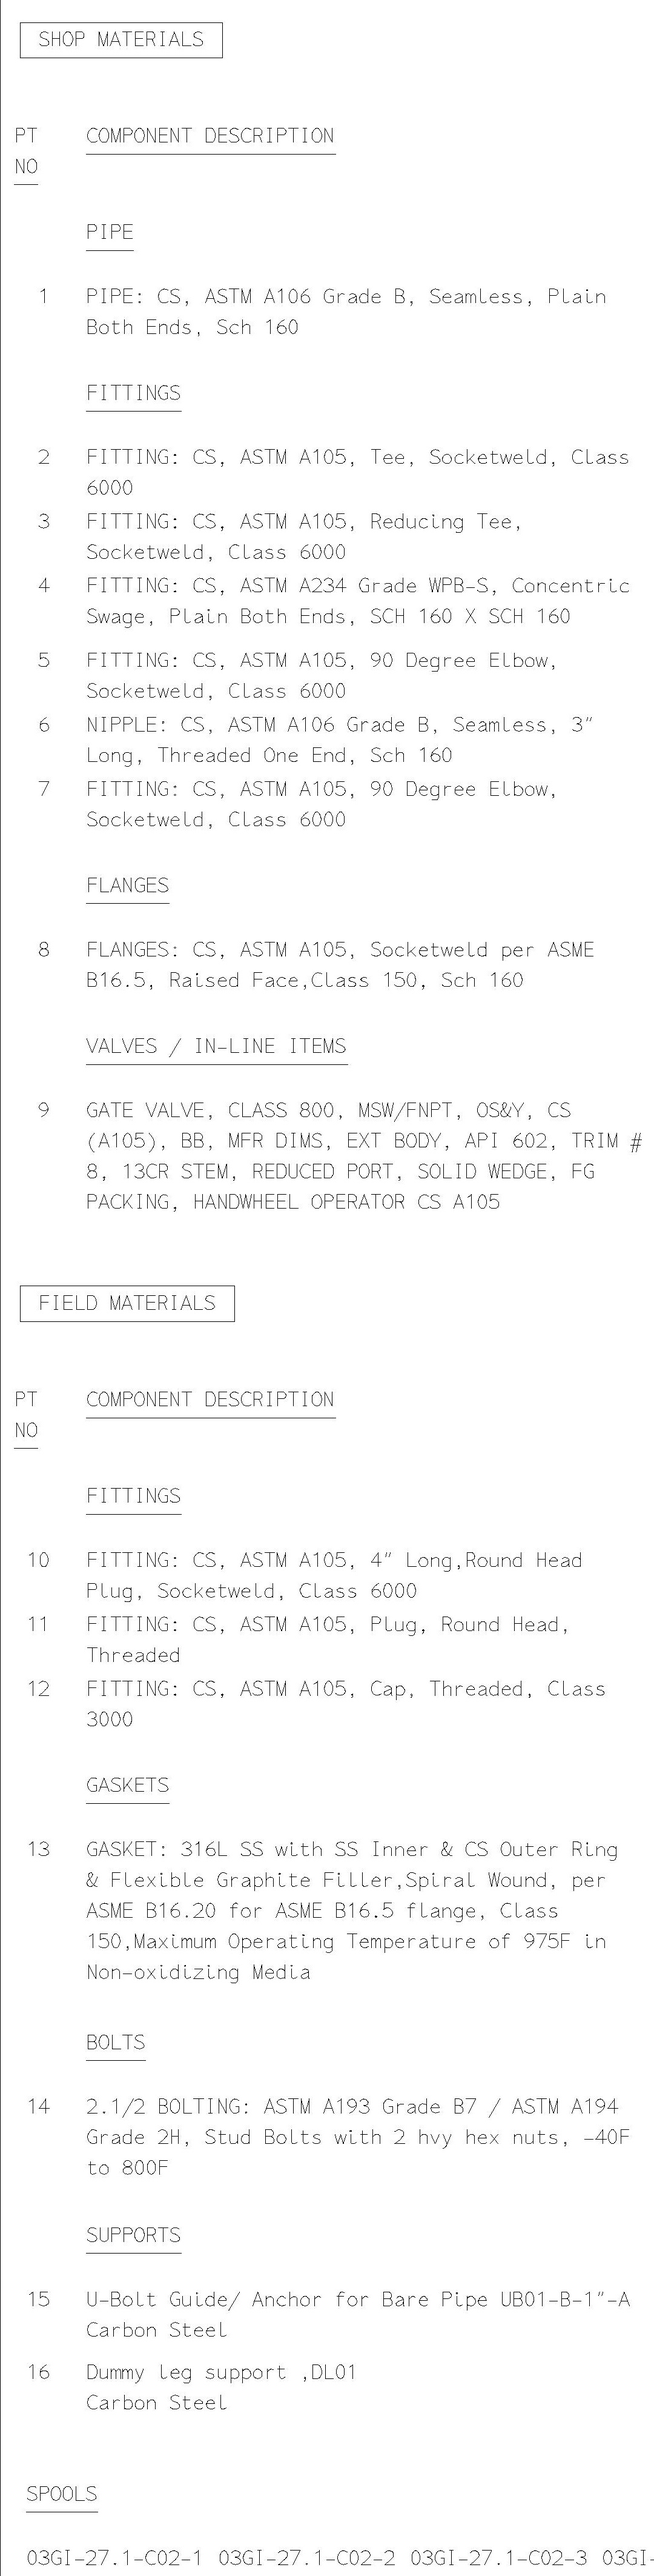
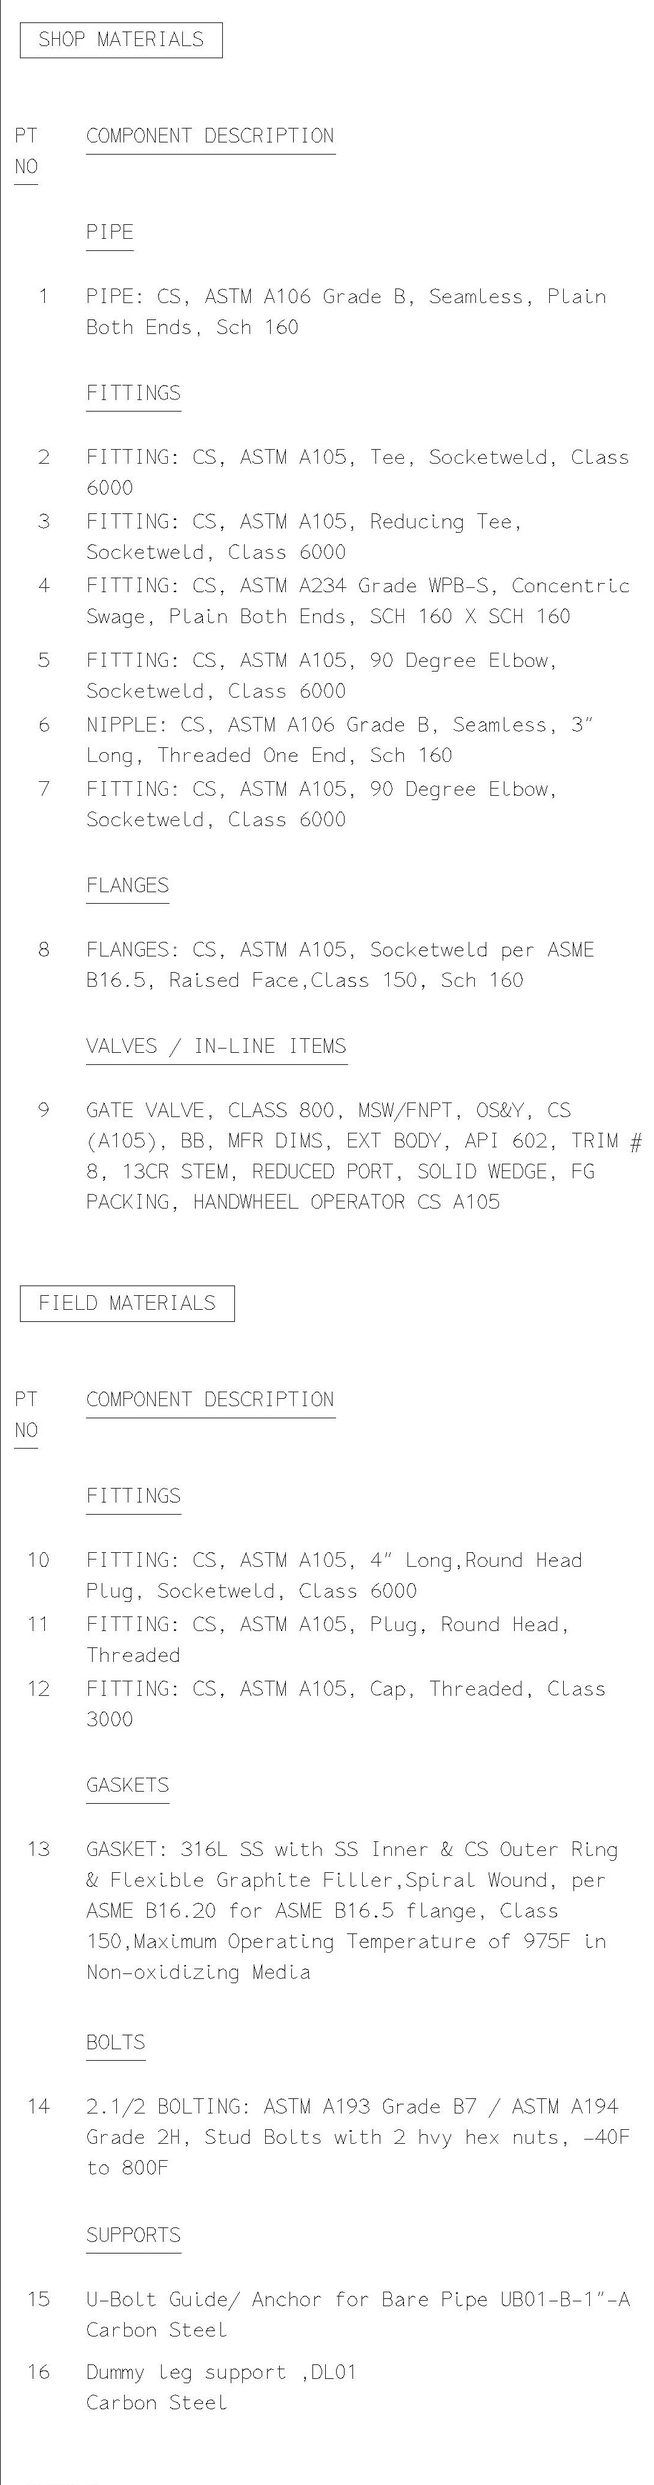
till ocr completed

diff --git a/ocr.py b/ocr.py
@@ -3,24 +3,35 @@ from PIL import Image
 import pytesseract
 import re
 import cv2
+import os
+
+path = 'cropped'
+os.makedirs(path, exist_ok=True)
+path2 = 'extract'
+os.makedirs(path2, exist_ok=True)
+
 pytesseract.pytesseract.tesseract_cmd = r'C:\Program Files\Tesseract-OCR\tesseract.exe'
 # characters_to_remove = ['‘', '|', '-', '(', ';', '}', '+', '—', '”', '“', '°']
 characters_to_remove = ['‘', '|', ';', '}', '+', '“', '°', '”']
-images = glob.glob("./Cropped/*.jpg")
-image_counter = 1
 
-for image in images:
-    # preprocessing the image
-    bgr_image = cv2.imread(image)
-    gray = cv2.cvtColor(bgr_image, cv2.COLOR_BGR2GRAY)
-    blur = cv2.GaussianBlur(gray, (3,3), 0)
-    thresh = cv2.threshold(blur, 0, 255, cv2.THRESH_BINARY_INV + cv2.THRESH_OTSU)[1]
-    invert = 255 - thresh    
-    # img = Image.open(invert)
-    data = pytesseract.image_to_string(invert, lang='eng', config='--psm 6')
-    cleaned_data = data
-    for char in characters_to_remove:
-        cleaned_data = cleaned_data.replace(char, '')
-    with open(f'extract/text_{image_counter}.txt', 'w') as file:
-        file.write(cleaned_data)
-    image_counter = image_counter + 1
+def ocr_image(pdf_name):
+    images = glob.glob("./cropped/"+pdf_name+"/*.jpg")
+    image_counter = 1
+    
+    for image in images:
+        # preprocessing the image
+        bgr_image = cv2.imread(image)
+        gray = cv2.cvtColor(bgr_image, cv2.COLOR_BGR2GRAY)
+        blur = cv2.GaussianBlur(gray, (3,3), 0)
+        thresh = cv2.threshold(blur, 0, 255, cv2.THRESH_BINARY_INV + cv2.THRESH_OTSU)[1]
+        invert = 255 - thresh    
+        # img = Image.open(invert)
+        data = pytesseract.image_to_string(invert, lang='eng', config='--psm 6')
+        cleaned_data = data
+        for char in characters_to_remove:
+            cleaned_data = cleaned_data.replace(char, '')
+        with open(f'extract/text_{image_counter}.txt', 'w') as file:
+            file.write(cleaned_data)
+        image_counter = image_counter + 1
+
+# ocr_image("03GI-27.1_C02_REV0.pdf")

diff --git a/cropping.py b/cropping.py
@@ -9,6 +9,10 @@ os.makedirs(path, exist_ok=True)
 # images = glob.glob("./rotating/*.jpg")
 # images = glob.glob("./Retrieve/*.jpg")
 
+x = [6060, 7140, 7300, 7660, 7300]
+y = [150, 150, 150, 150, 150]
+w = [1080, 160, 360, 250, 610]
+h = [4100, 4100, 4100, 4100, 4100]
 
 # x = 6000
 # y = 100
@@ -19,15 +23,12 @@ os.makedirs(path, exist_ok=True)
 
 
 # for image in images:
-def crop_image(filename):
-        x = [6060, 7140, 7300, 7660, 7300]
-        y = [150, 150, 150, 150, 150]
-        w = [1080, 160, 360, 250, 610]
-        h = [4250, 4250, 4250, 4250, 4250]
+def crop_image(pdf_name):
+        
         image_counter = 1
         # global image_counter
-        images = glob.glob("./retrieve/"+filename+"/*.jpg")
-        os.makedirs('cropped/'+filename, exist_ok=True)
+        images = glob.glob("./retrieve/"+pdf_name+"/*.jpg")
+        os.makedirs('cropped/'+pdf_name, exist_ok=True)
         for image in images:
                 # image = images[j]
                 img=cv2.imread(image,1)
@@ -39,10 +40,11 @@ def crop_image(filename):
 
                 for i in range(5):
                         crop_img = img[y[i]:y[i]+h[i], x[i]:x[i]+w[i]]
-                        filename = "cropped/"+filename+"/crop"+str(image_counter)+"_"+str(i)+".jpg"        
+                        filename = "cropped/"+pdf_name+"/crop"+str(image_counter)+"_"+str(i)+".jpg"        
                         cv2.imwrite(filename,crop_img)
+                        # print (filename)
                 #cv2.imshow('windo',crop_img)
                 image_counter = image_counter + 1
 
 
-crop_image("03GI-27.1_C02_REV0.pdf")
+# crop_image("03GI-27.1_C02_REV0.pdf")

diff --git a/getarray.py b/getarray.py
@@ -1,0 +1,30 @@
+import re
+
+length = 0
+
+with open('extract/text_4.txt', 'r') as file4:
+    qty_array = [line[:-1] for line in file4 if line.strip() and ("QTY" not in line)]
+    length = len(qty_array)
+    # print(qty_array)
+    
+with open('extract/text_1.txt', 'r') as file1:
+    # description_string = file.read()
+    description_array = [line[:-1] for line in file1 if line.strip() and ("NO\n" not in line and "DESCRIPTION" not in line)]
+
+    ## split with "material" and merge
+    merged_strings = []
+    current_string = []
+    materials = []
+    for element in description_array:
+        if "MATERIALS" in element:
+            materials.append(element)
+            if current_string: # If there's a string being merged, append it
+                merged_strings.append(current_string)
+                current_string = [] # Start a new string
+        else:
+            current_string.append(element)
+    if current_string:
+        merged_strings.append(current_string)
+
+    print(merged_strings)
+    

diff --git a/app.py b/app.py
@@ -4,6 +4,7 @@ import os
 
 from readpdf import pdf_to_img
 from cropping import crop_image
+from ocr import ocr_image
 
 app = Flask(__name__)
 path = 'uploads'
@@ -26,6 +27,7 @@ def upload_file():
         file.save(os.path.join(app.config['UPLOAD_FOLDER'], filename))
         pdf_to_img(filename)
         crop_image(filename)
+        ocr_image(filename)
         print(filename)
         return 'File uploaded successfully', 200
 
